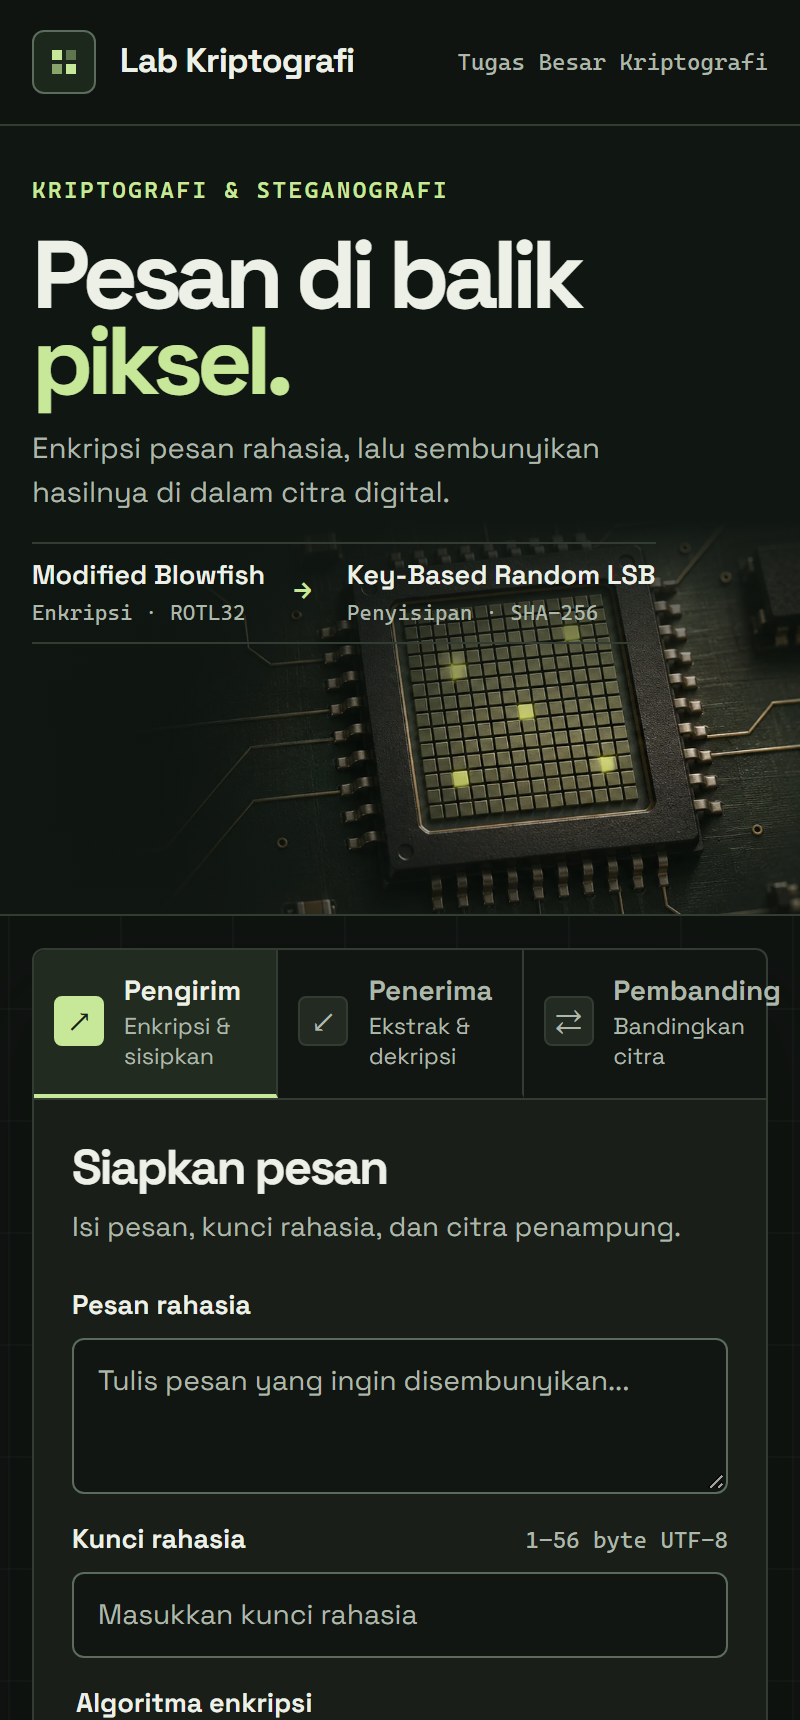
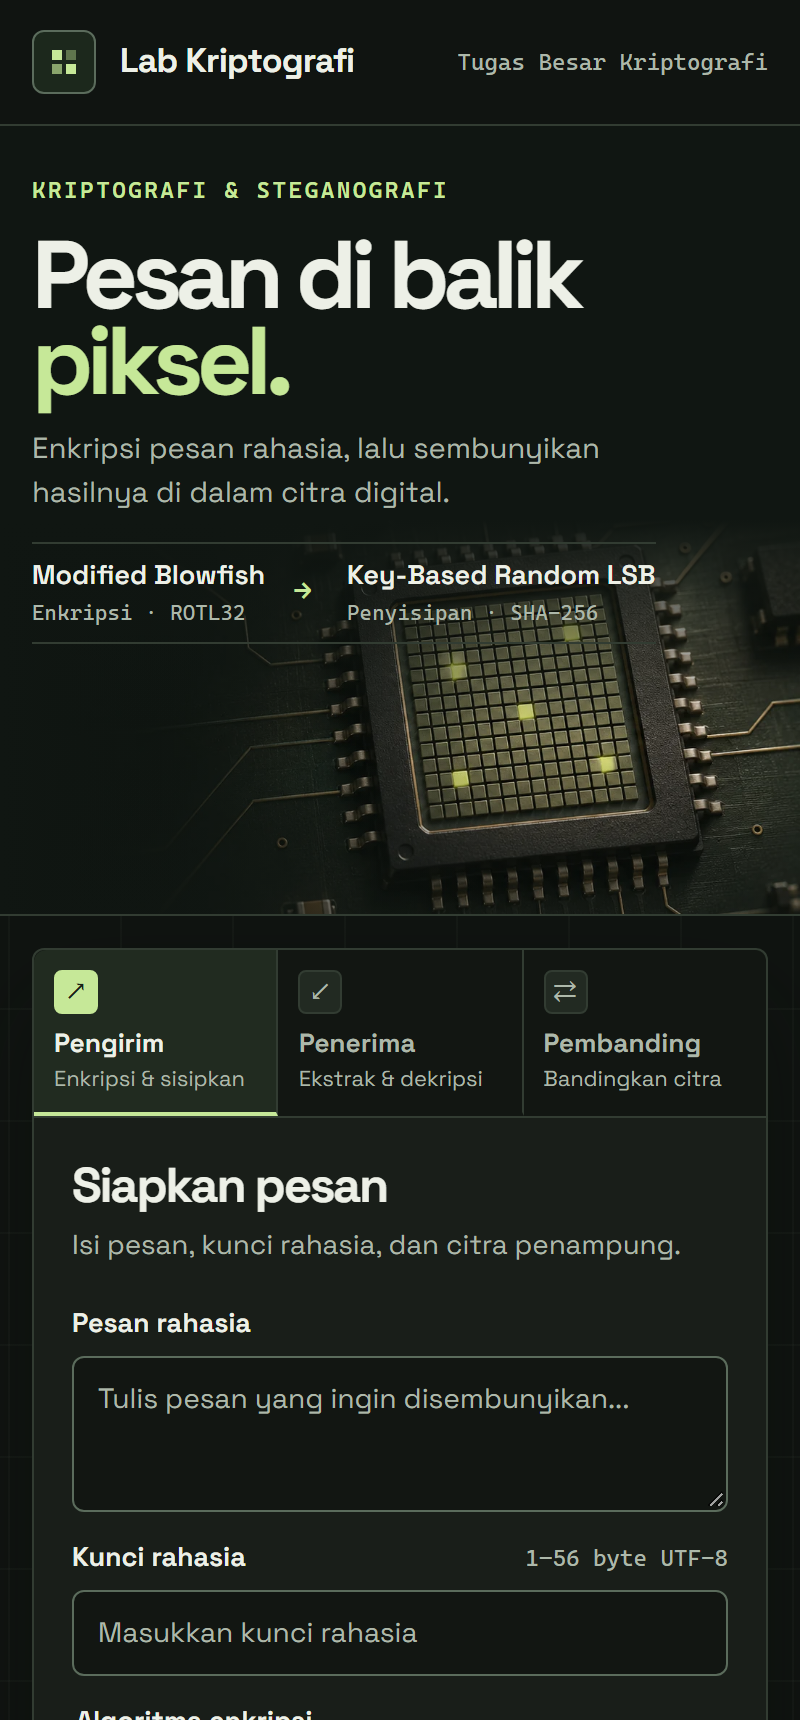
Perbaiki label tab terpotong di layar sempit
Pada lebar 400px label 'Pembanding' terpotong di tepi kanan karena tab
memaksa satu baris dengan ikon di samping. Di media query <=560px ikon
kini ditumpuk di atas label sehingga teks mendapat lebar penuh.

diff --git a/static/crypto.css b/static/crypto.css
@@ -639,7 +639,19 @@ tbody td { font-family: var(--mono); }
   .algorithm-flow li { padding-block: 6px; }
   .tab-btn { flex: 1 1 0; width: auto; padding-inline: 10px; }
   .tab-btn:last-child { border-right: 0; border-top-right-radius: var(--radius); }
-  .workspace-grid { grid-template-columns: minmax(0, 1fr); }
+  /* Layar sempit: ikon di atas label supaya teks dapat lebar penuh dan
+     kata seperti "Pembanding" tidak terpotong atau pecah di tengah kata. */
+  .tab-btn {
+    flex-direction: column;
+    align-items: flex-start;
+    gap: 6px;
+    padding: 10px;
+    font-size: .82rem;
+  }
+  .tab-symbol { width: 22px; height: 22px; font: .95rem/1 var(--mono); }
+  .tab-btn small { font-size: .68rem; }
+  .tab-btn > span:last-child { min-width: 0; }
+  .tab-btn small { overflow-wrap: normal; }  .workspace-grid { grid-template-columns: minmax(0, 1fr); }
   .workspace-output { border-top: 1px solid var(--line); border-left: 0; }
   .stego-empty { min-height: 135px; }
   .compare-pickers, .compare-preview-grid { grid-template-columns: minmax(0, 1fr); }
